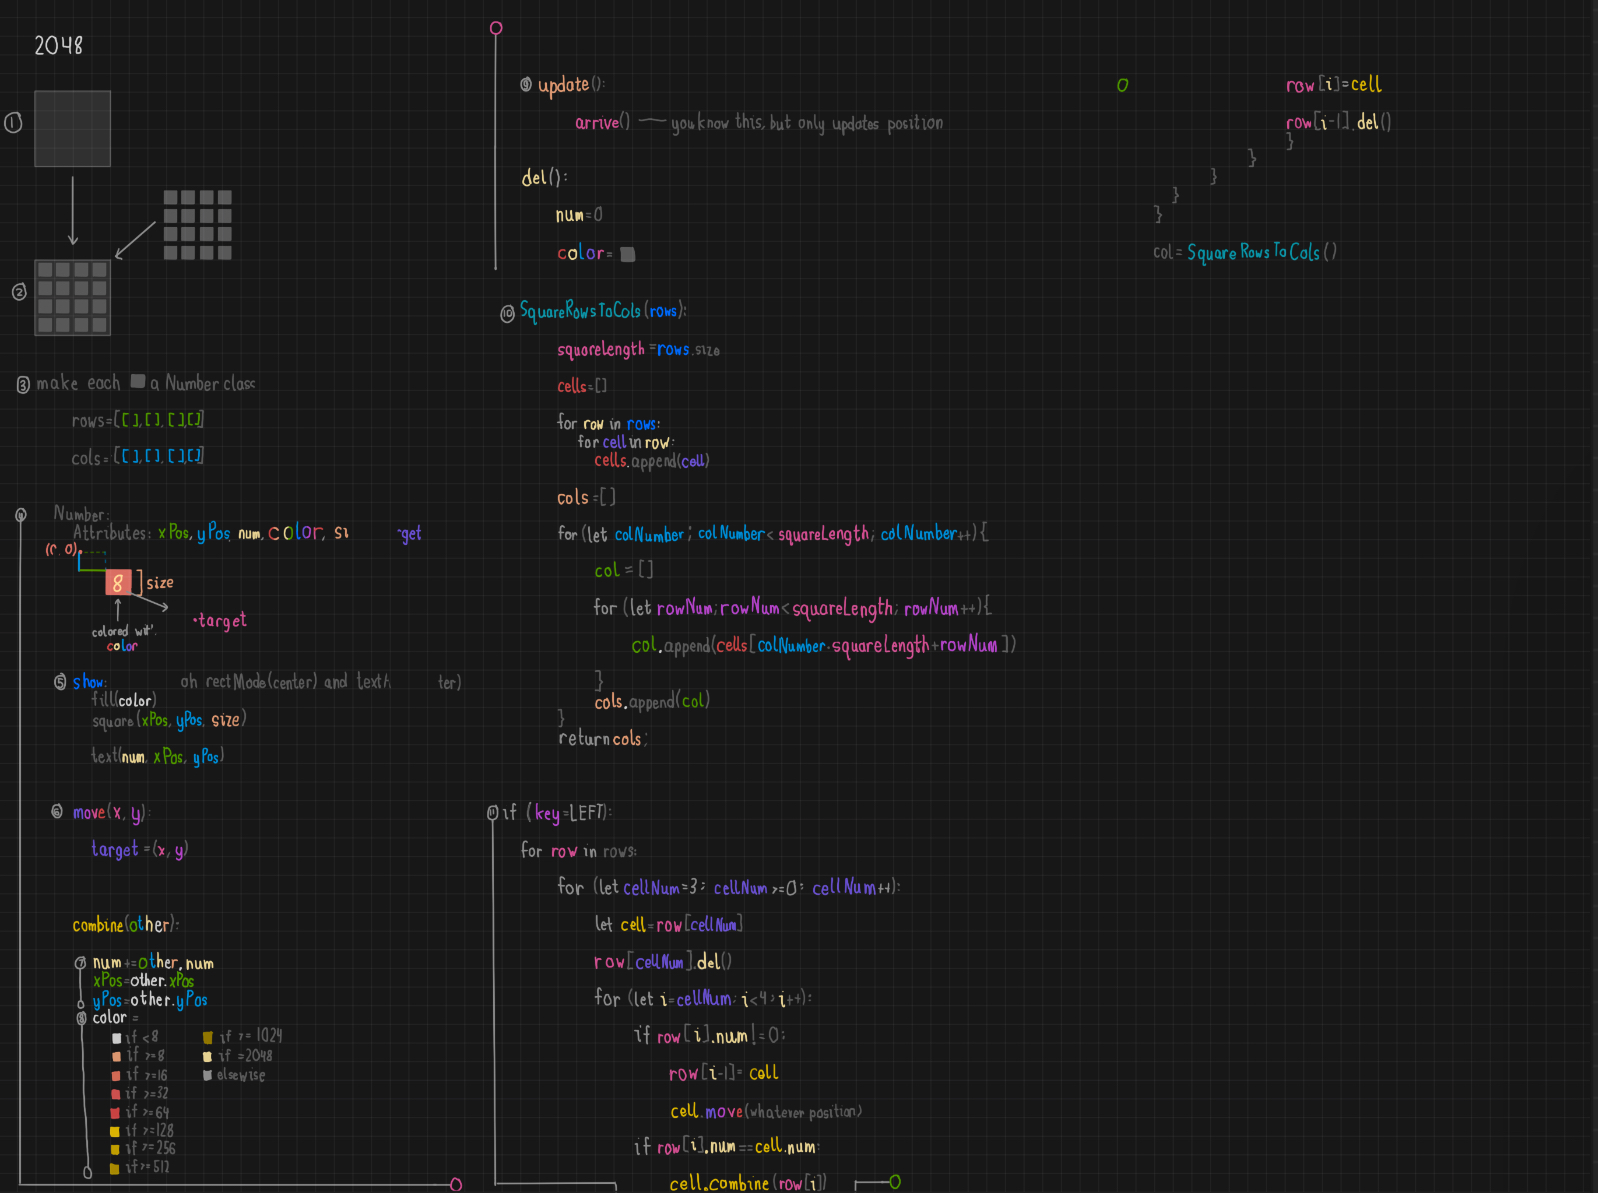
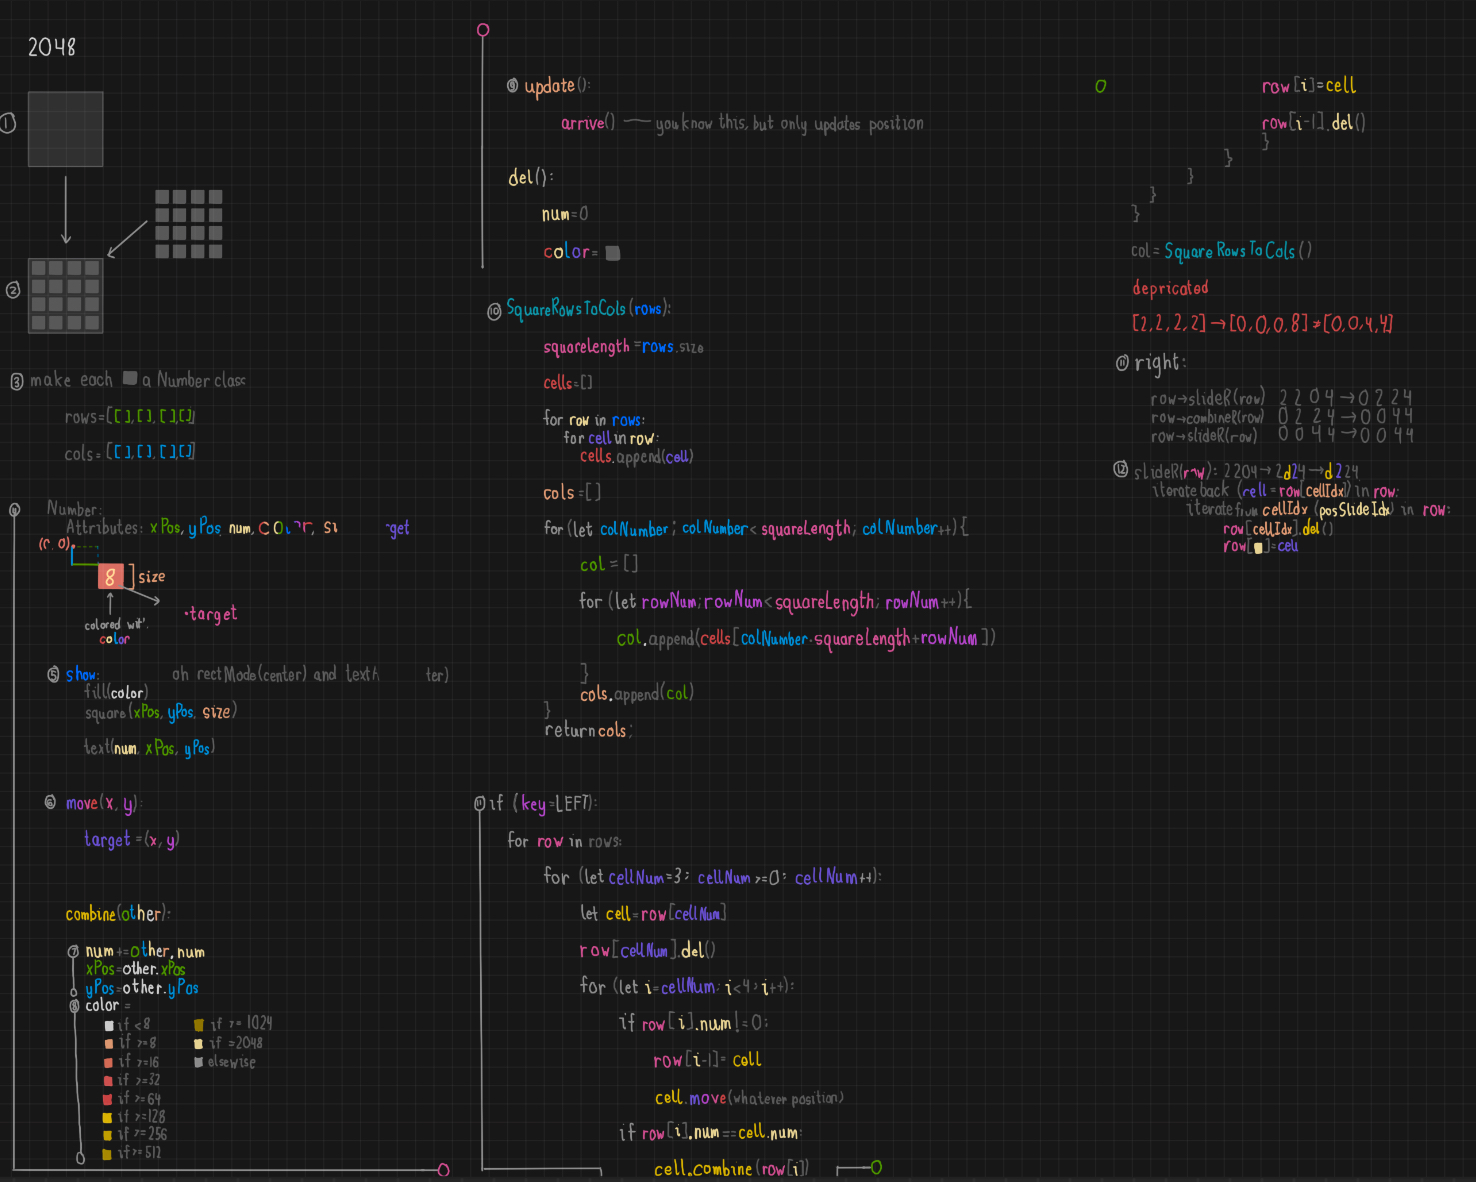
add planning for sliding right, just that

diff --git a/sketch.js b/sketch.js
@@ -2,11 +2,16 @@
  *  @author Cody
  *  @date 2022.08.15
  *
+ *
  *  test cases for right for just a single row:
  *       [0, 0, 0, 2] → [0, 0, 0, 2] due to nothing being able to be shifted
  *       [2, 0, 0, 0] → [0, 0, 0, 2] due to the 2 being shifted all the way
+ *       [2, 4, 8, 0] → [0, 2, 4, 8] due to the numbers being shifted all the way
+ *       [2, 4, 8, 16] → [2, 4, 8, 16] due to numbers blocking each other
  *       [0, 0, 2, 2] → [0, 0, 0, 4] due to the left 2 being combined with the right one
- *       [0, 2, 2, 2] → [0, 0, 2, 4] due to the 2s being combined and the other 2 moving to the right-most square after
+ *       [0, 2, 0, 2] → [0, 0, 0, 4] due to the left 2 moving and combining with the right one
+ *       [2, 0, 2, 2] → [0, 0, 2, 4] due to the 2s being combined and the other 2 moving to the right-most square after
+ *       [0, 4, 2, 2] → [0, 0, 4, 4] due to the 4s not being able to be combined another time
  *       [2, 2, 4, 4] → [0, 0, 4, 8] due to the 4s being combined and the 2s combine moving to the right side
  *       [2, 2, 2, 2] → [0, 0, 4, 4] due to the 4s not being able to be combined another time
  *       [2, 2, 4, 8] → [0, 4, 4, 8] as opposed to [0, 0, 0, 16] due to the 2s combining but not being able to combine again with the 4
